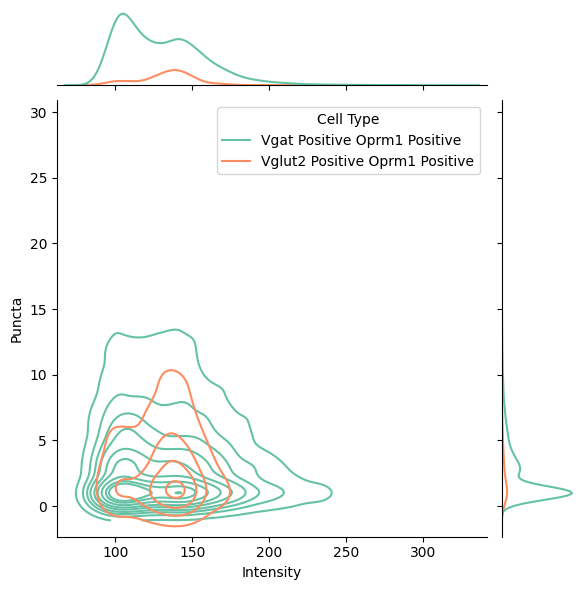
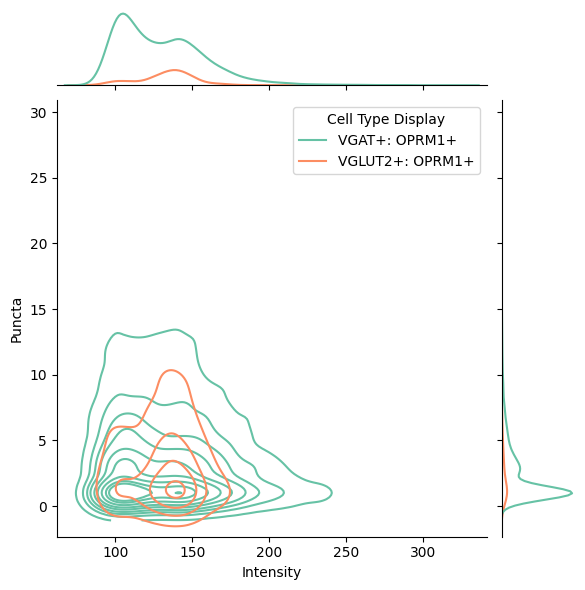
thresholding trimming iqr

Changed region(s): [[0.3692, 0.1831, 0.8, 0.3051]]

diff --git a/ImageAnalysis/VentralPallidum_Pipeline/comparison_intensityANDpuncta_vgatvglut2oprm1_plots.py b/ImageAnalysis/VentralPallidum_Pipeline/comparison_intensityANDpuncta_vgatvglut2oprm1_plots.py
@@ -1,3 +1,29 @@
+# Helper function to detect and remove outliers using the IQR method
+def remove_outliers(df, column):
+    if df.empty:
+        return df
+
+# Function to calculate the threshold (valley between peaks) dynamically
+def calculate_threshold(df, column):
+    if df.empty:
+        return None
+    
+    # Fit KDE
+    kde = gaussian_kde(df[column])
+    x = np.linspace(df[column].min(), df[column].max(), 1000)
+    y = kde(x)
+    
+    # Find peaks and valleys
+    peaks, _ = find_peaks(y)
+    valleys, _ = find_peaks(-y)
+
+    if len(valleys) > 0:
+        # Select the first valley as the threshold (or customize based on domain knowledge)
+        threshold = x[valleys[0]]
+        return threshold
+
+
+
 import os
 import pandas as pd
 import matplotlib.pyplot as plt
@@ -120,7 +146,7 @@ with open(stats_file_path, "w") as stats_file:
 
             df["Subpopulation"] = pd.cut(
                 df["AF568: Cell: Mean"],
-                bins=[-float("inf"), 150, float("inf")],
+                bins=[-float("inf"), 120, float("inf")],
                 labels=["Low Intensity", "High Intensity"]
             ).astype(str) + " | " + pd.cut(
                 df["Num spots"],
@@ -134,19 +160,41 @@ with open(stats_file_path, "w") as stats_file:
 
             stats_file.write("\n")
 
-
+# Define a mapping of internal names to display names
+cell_type_rename = {
+    "vgat_positive_oprm1_positive": "VGAT+: OPRM1+",
+    "vglut2_positive_oprm1_positive": "VGLUT2+: OPRM1+"
+}
 
 #Visualization
 subpop_comparison = []
 for cell_type, df in data.items():
     if not df.empty:
         subpop_comparison.extend([
-            {"Cell Type": cell_type.replace("_", " ").title(), "Intensity": row["AF568: Cell: Mean"], "Puncta": row["Num spots"]}
+            {"Cell Type": cell_type, "Intensity": row["AF568: Cell: Mean"], "Puncta": row["Num spots"]}
             for _, row in df.iterrows()
         ])
 
 if subpop_comparison:
     subpop_comparison_df = pd.DataFrame(subpop_comparison)
+    
+    # Apply renaming correctly
+    subpop_comparison_df["Cell Type Display"] = subpop_comparison_df["Cell Type"].map(cell_type_rename)
+
+    # Joint plot for Puncta vs. Intensity
+    joint_plot = sns.jointplot(
+        data=subpop_comparison_df,
+        x="Intensity",
+        y="Puncta",
+        hue="Cell Type Display",  # Correctly mapped names
+        kind="kde",
+        palette="Set2"
+    )
+
+    joint_plot.savefig(os.path.join(plots_dir, "VGAT_vs_VGLUT2_JointPlot.png"))
+    plt.close()
+
+
 
     # # Scatter plots
     # plt.figure(figsize=(10, 6))
@@ -165,17 +213,4 @@ if subpop_comparison:
     # plt.savefig(os.path.join(plots_dir, "VGAT_vs_VGLUT2_Scatter.png"))
     # plt.close()
 
-# Joint plot for Puncta vs. Intensity
-if not subpop_comparison_df.empty:
-    joint_plot = sns.jointplot(
-        data=subpop_comparison_df,
-        x="Intensity",
-        y="Puncta",
-        hue="Cell Type",
-        kind="kde",
-        palette="Set2"
-    )
 
-    #joint_plot.fig.suptitle("Joint Distribution of Puncta vs. Intensity", fontsize=12)
-    joint_plot.savefig(os.path.join(plots_dir, "VGAT_vs_VGLUT2_JointPlot.png"))
-    plt.close()

diff --git a/ImageAnalysis/VentralPallidum_Pipeline/**Breakdown of the Script: Analyzing VGA.md b/ImageAnalysis/VentralPallidum_Pipeline/**Breakdown of the Script: Analyzing VGA.md
@@ -1,0 +1,63 @@
+# README: Intensity and Puncta Analysis Script
+
+## Overview
+This script processes and analyzes whole-slide image data for **VGAT and VGLUT2 OPRM1** composite detections. It incorporates **outlier exclusion and intensity thresholding** from the intensity analysis script and applies it to both intensity and puncta data.
+
+## Features
+- Loads **raw detection data** for VGAT and VGLUT2.
+- Applies **outlier removal** using the **Interquartile Range (IQR) method**.
+- Dynamically determines an **intensity threshold** using peak-valley analysis.
+- Performs statistical analysis (Mann-Whitney U test).
+- Generates plots for visualization.
+
+## Dependencies
+Ensure you have the following Python libraries installed:
+```bash
+pip install pandas numpy matplotlib seaborn scipy
+```
+
+## Usage
+Run the script using:
+```bash
+python updated_intensityANDpuncta_vgatvglut2oprm1_plots.py
+```
+
+## Key Functions
+### `remove_outliers(df, column)`
+Removes outliers based on the IQR method:
+```python
+import numpy as np
+
+def remove_outliers(df, column):
+    Q1 = df[column].quantile(0.25)
+    Q3 = df[column].quantile(0.75)
+    IQR = Q3 - Q1
+    lower_bound = Q1 - 1.5 * IQR
+    upper_bound = Q3 + 1.5 * IQR
+    return df[(df[column] >= lower_bound) & (df[column] <= upper_bound)]
+```
+
+### `calculate_threshold(df, column)`
+Dynamically calculates an **intensity threshold**:
+```python
+from scipy.signal import find_peaks
+
+def calculate_threshold(df, column):
+    density = gaussian_kde(df[column])
+    x = np.linspace(df[column].min(), df[column].max(), 1000)
+    y = density(x)
+    peaks, _ = find_peaks(y)
+    valleys, _ = find_peaks(-y)
+    threshold = x[valleys[0]] if len(valleys) > 0 else df[column].median()
+    return threshold
+```
+
+## Output
+- **Plots** saved in the `oprm1VGATvsVGLUT2_plots/` directory.
+- **Statistical results** printed to the console.
+
+## Notes
+- Ensure the raw detection files are located in the correct paths before running the script.
+- Modify the `paths` dictionary if file locations change.
+
+
